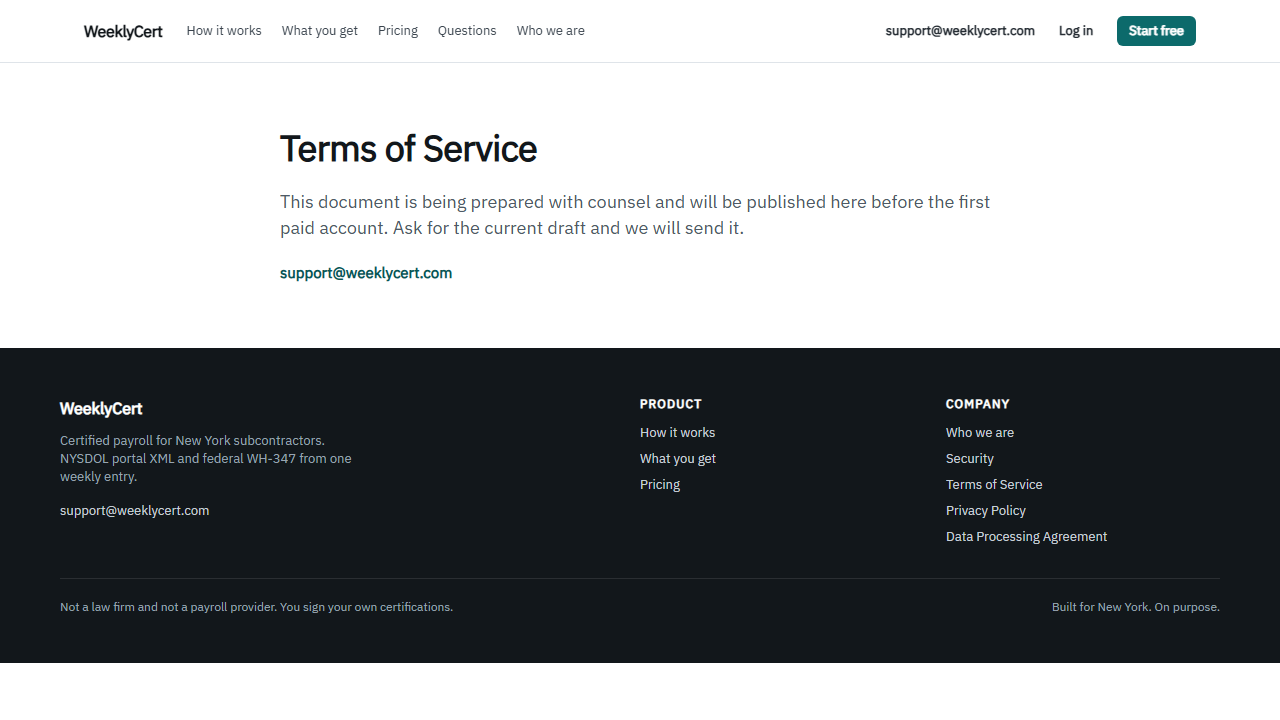
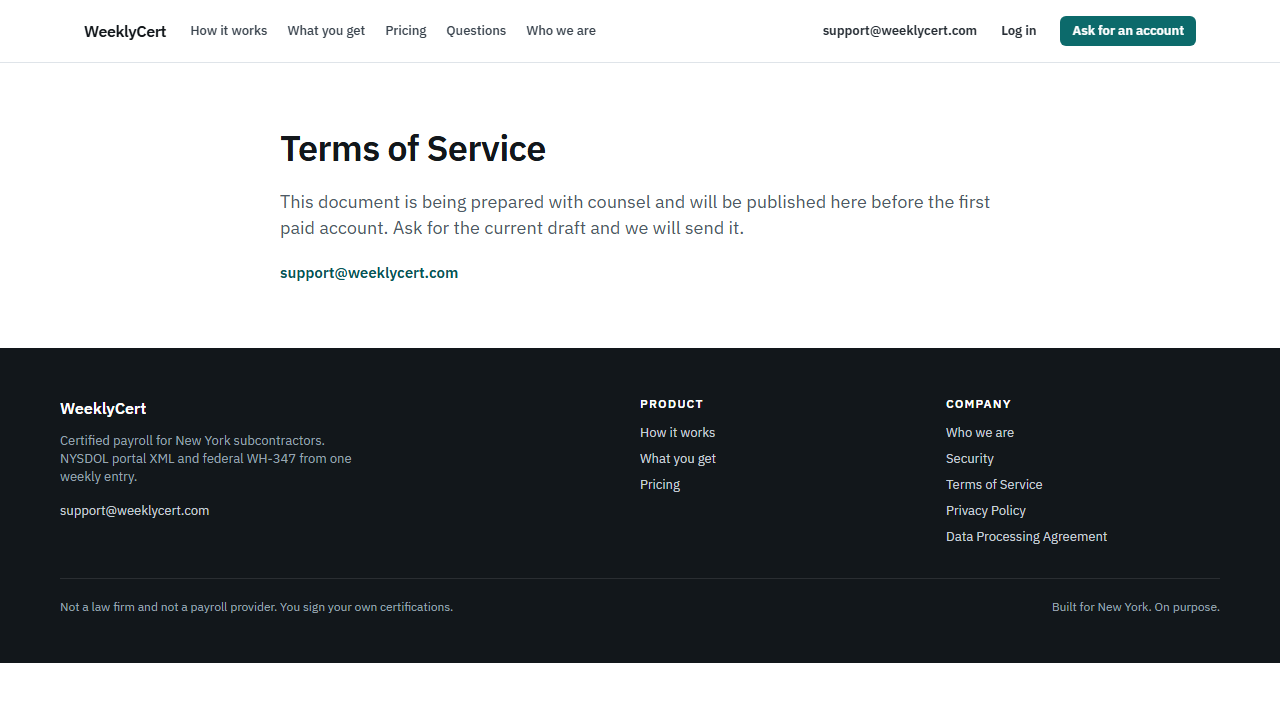
[3b] site: no call to action leads anywhere that does not exist
Start free went to /pricing, and on /pricing to itself; Log in went to
app.weeklycert.com, which is built after the gate of ten payments. Until sign
up exists both open an email to the address the header already shows, with a
subject that says which button was pressed. Text added to 15 section 3 block 14
first, then to packages/copy, then used. The four strings are marked temporary
there, with what replaces them.

The note under the price button no longer promises what happens to a card,
because no card is taken.

New test walks every link on every built page and fails on anything that is not
an email, an anchor that exists, or a page that answers 200.

The hero img keeps its Biome suppression with the reason: next/image optimises
nothing under output export without a loader.

diff --git a/apps/site/test/e2e/site.spec.ts b/apps/site/test/e2e/site.spec.ts
@@ -79,14 +79,68 @@ test('the hero carries the real grid and a whole week of it (spec/16 §4 row 2)'
   await expect(shot).toHaveAttribute('alt', /seven days/)
 })
 
-test('the one primary action leads to the price (spec/16 §4, CTA discipline)', async ({ page }) => {
+test('the one primary action opens an email, because sign up does not exist yet', async ({
+  page,
+}) => {
   // spec/19 §10 item 7: one test for the main action of the screen. There is
   // exactly one primary action on this site and it is repeated, never competed
   // with by a "Book a demo" of equal weight.
+  //
+  // Where it leads is 15 §3 block 14: /register and app.weeklycert.com are
+  // built after the gate of ten payments (19 §9), so until then the button says
+  // what it does and opens an email instead of promising a screen.
   await page.goto('/')
-  await page.getByRole('link', { name: 'Start free for 14 days' }).first().click()
-  await expect(page).toHaveURL(/\/pricing/)
-  await expect(page.getByRole('heading', { level: 1 })).toBeVisible()
+  const primary = page.getByRole('link', { name: 'Ask for an account' }).first()
+  await expect(primary).toHaveAttribute(
+    'href',
+    'mailto:support@weeklycert.com?subject=Account%20request%20from%20weeklycert.com',
+  )
+  // And it says so next to itself, rather than letting the visitor find out.
+  await expect(page.getByText('Sign up is not open yet').first()).toBeVisible()
+})
+
+test('no link anywhere on the site leads to a page that does not exist', async ({
+  page,
+  request,
+}) => {
+  // The rule behind this one is blunt: a call to action that 404s on a site
+  // selling compliance software costs more than the sale. Every link on every
+  // built page is either an email, a section of a page that exists, or a page
+  // that answers 200.
+  const checked = new Map<string, number>()
+  for (const route of ROUTES) {
+    await page.goto(route.path)
+    const hrefs = await page
+      .locator('a[href]')
+      .evaluateAll((links) => links.map((link) => link.getAttribute('href') ?? ''))
+    expect(hrefs.length).toBeGreaterThan(5)
+
+    for (const href of hrefs) {
+      if (href.startsWith('mailto:')) {
+        // One inbox, and a subject that says which button was pressed (15 §3).
+        expect(href, `${route.path}: ${href}`).toMatch(
+          /^mailto:support@weeklycert\.com(\?subject=\S+)?$/,
+        )
+        continue
+      }
+      // Nothing on this site links off it, and nothing links to a host that is
+      // not built yet either.
+      expect(href, `${route.path}: ${href}`).toMatch(/^\/[\w#/-]*$/)
+
+      const [path = '/', fragment] = href.split('#')
+      const target = path === '' ? '/' : path
+      if (!checked.has(target)) {
+        checked.set(target, (await request.get(target)).status())
+      }
+      expect(checked.get(target), `${route.path} links to ${href}`).toBe(200)
+
+      if (fragment) {
+        await page.goto(target)
+        await expect(page.locator(`#${fragment}`)).toHaveCount(1)
+        await page.goto(route.path)
+      }
+    }
+  }
 })
 
 test('a section link does not park its heading under the sticky header', async ({ page }) => {

diff --git a/apps/site/components/Hero.tsx b/apps/site/components/Hero.tsx
@@ -1,6 +1,7 @@
 import { copy } from '@wc/copy'
 import { preload } from 'react-dom'
 import { Check } from './Check'
+import { supportMailto } from './links'
 
 /**
  * spec/16 §4 row 2. The picture on the right is a REAL screenshot of the hours
@@ -24,11 +25,13 @@ export function Hero() {
           <h1 className="font-semibold text-4xl text-text-primary">{c.title}</h1>
           <p className="mt-5 max-w-[520px] text-lg text-text-secondary">{c.subtitle}</p>
           <div className="mt-7 flex flex-wrap gap-3">
+            {/* The one primary action, and while sign-up does not exist it is an
+                email, not a link to a screen nobody built (15 §3 block 14). */}
             <a
               className="inline-flex h-12 items-center rounded-md bg-brand px-6 font-semibold text-md text-white no-underline hover:bg-brand-hover"
-              href="/pricing"
+              href={supportMailto(copy.site.signup.subject)}
             >
-              {c.primary}
+              {copy.site.signup.button}
             </a>
             <a
               className="inline-flex h-12 items-center rounded-md border border-n-450 bg-white px-6 font-semibold text-md text-n-800 no-underline hover:bg-n-50"
@@ -48,6 +51,7 @@ export function Hero() {
         </div>
 
         <div className="overflow-hidden rounded-lg border border-n-300 bg-white shadow-panel">
+          {/* biome-ignore lint/performance/noImgElement: next/image optimises nothing under output: 'export' without a custom loader (19 §2 and §9), so <Image> would ship the same bytes plus a client component. The size is fixed above and the fetch priority is set by hand. */}
           <img
             src="/hero-grid.png"
             alt={c.shotAlt}

diff --git a/apps/site/components/SiteNav.tsx b/apps/site/components/SiteNav.tsx
@@ -1,5 +1,5 @@
 import { copy } from '@wc/copy'
-import { APP_URL, SECTION } from './links'
+import { SECTION, supportMailto } from './links'
 
 /**
  * spec/16 §4 row 1. The human option in the header is an email address and not
@@ -8,6 +8,11 @@ import { APP_URL, SECTION } from './links'
  *
  * Section links are absolute (`/#how`), so they work from /pricing and
  * /security as well as from the home page.
+ *
+ * "Log in" and the primary action both open an email: the application lives at
+ * app.weeklycert.com, which is built after the gate of ten payments (19 §9), so
+ * until then both of them would point at a host that does not answer
+ * (15 §3 block 14).
  */
 export function SiteNav() {
   const c = copy.site.nav
@@ -49,15 +54,15 @@ export function SiteNav() {
           </a>
           <a
             className="hidden h-[30px] items-center rounded-md px-3 font-semibold text-n-800 text-sm no-underline hover:bg-n-50 sm:inline-flex"
-            href={APP_URL}
+            href={supportMailto(copy.site.signup.logInSubject)}
           >
             {c.logIn}
           </a>
           <a
             className="inline-flex h-[30px] items-center rounded-md bg-brand px-3 font-semibold text-sm text-white no-underline hover:bg-brand-hover"
-            href="/pricing"
+            href={supportMailto(copy.site.signup.subject)}
           >
-            {c.startFree}
+            {copy.site.signup.button}
           </a>
         </div>
       </div>

diff --git a/apps/site/components/PriceTable.tsx b/apps/site/components/PriceTable.tsx
@@ -1,5 +1,6 @@
 import { copy } from '@wc/copy'
 import { Check } from './Check'
+import { supportMailto } from './links'
 import { Section, SectionHead } from './Section'
 
 /**
@@ -32,13 +33,15 @@ export function PriceTable({ level = 2 }: { level?: 1 | 2 }) {
               </li>
             ))}
           </ul>
+          {/* No card is taken yet, so the note under the button cannot promise
+              what happens to one (15 §3 block 14). */}
           <a
             className="mt-6 flex h-12 items-center justify-center rounded-md bg-brand px-6 font-semibold text-md text-white no-underline hover:bg-brand-hover"
-            href="/pricing"
+            href={supportMailto(copy.site.signup.subject)}
           >
-            {c.cta}
+            {copy.site.signup.button}
           </a>
-          <p className="mt-2.5 text-center text-text-secondary text-xs">{c.ctaNote}</p>
+          <p className="mt-2.5 text-center text-text-secondary text-xs">{copy.site.signup.note}</p>
         </div>
 
         <div className="rounded-lg border border-white/15 bg-white/5 p-6">

diff --git a/apps/site/components/links.ts b/apps/site/components/links.ts
@@ -1,5 +1,4 @@
-/** Where the application lives (spec/19 §9: the site and the app are two hosts). */
-export const APP_URL = 'https://app.weeklycert.com'
+import { copy } from '@wc/copy'
 
 /**
  * The home page sections, written absolute so a link works from /pricing and
@@ -16,3 +15,16 @@ export const SECTION = {
 export const LEGAL_DOCS = ['terms', 'privacy', 'dpa'] as const
 
 export type LegalDoc = (typeof LEGAL_DOCS)[number]
+
+/**
+ * Where a call to action goes while there is nothing to sign up to.
+ *
+ * `app.weeklycert.com` is built after the gate of ten payments (spec/19 §9) and
+ * `/register` is a screen in `apps/web` that does not exist yet either, so
+ * every button that used to promise one now opens an email to the address the
+ * header already shows (spec/15 §3 block 14). The subject says which button was
+ * pressed, because the same inbox answers all of them.
+ */
+export function supportMailto(subject: string): string {
+  return `mailto:${copy.site.nav.contact}?subject=${encodeURIComponent(subject)}`
+}

diff --git a/packages/copy/src/index.ts b/packages/copy/src/index.ts
@@ -392,6 +392,19 @@ export const copy = {
       /** The human option in the header. A phone number goes here when one exists. */
       contact: 'support@weeklycert.com',
     },
+    /**
+     * 15 §3 block 14. There is no /register and no app.weeklycert.com until the
+     * gate of ten payments (19 §9), so the primary action and "Log in" open an
+     * email instead of a screen that does not exist. `nav.startFree`,
+     * `hero.primary` and `pricing.cta` are the labels that come back the day
+     * sign-up does; nothing renders them in the meantime.
+     */
+    signup: {
+      button: 'Ask for an account',
+      note: 'Sign up is not open yet. Email us and we will set your account up by hand.',
+      subject: 'Account request from weeklycert.com',
+      logInSubject: 'Sign in help',
+    },
     footer: {
       description:
         'Certified payroll for New York subcontractors. NYSDOL portal XML and federal WH-347 from one weekly entry.',

diff --git a/apps/site/components/Cta.tsx b/apps/site/components/Cta.tsx
@@ -1,4 +1,5 @@
 import { copy } from '@wc/copy'
+import { supportMailto } from './links'
 
 /** spec/16 §4 row 14: the last call, the same one action as the hero. */
 export function Cta() {
@@ -10,10 +11,11 @@ export function Cta() {
         <p className="mx-auto mt-3 max-w-[560px] text-lg text-teal-100">{c.body}</p>
         <a
           className="mt-7 inline-flex h-12 items-center rounded-md bg-white px-6 font-semibold text-md text-n-900 no-underline hover:bg-n-50"
-          href="/pricing"
+          href={supportMailto(copy.site.signup.subject)}
         >
-          {c.button}
+          {copy.site.signup.button}
         </a>
+        <p className="mt-3 text-sm text-teal-100">{copy.site.signup.note}</p>
       </div>
     </section>
   )

diff --git a/spec/15-TEKSTOVI-I-EMAILOVI.md b/spec/15-TEKSTOVI-I-EMAILOVI.md
@@ -431,6 +431,23 @@ jednu istinitu rečenicu:
 `This document is being prepared with counsel and will be published here before the first paid account. Ask for the current draft and we will send it.`
 Ispod nje kontakt: `support@weeklycert.com`
 
+**14 Poziv na radnju dok registracija ne postoji**
+
+Registracija (`/register`) i aplikacija (`app.weeklycert.com`) nastaju tek
+poslije kapije od 10 uplata (19 §9, 12). Do tada nijedno dugme ne smije voditi na
+ekran koji ne postoji, jer je slijepi link na sajtu koji prodaje usklađenost
+gori od poštene rečenice. Primarna radnja i `Log in` zato vode na
+`mailto:support@weeklycert.com`, s predmetom koji kaže o čemu se radi.
+
+- Dugme, umjesto `Start free` i `Start free for 14 days`: `Ask for an account`
+- Napomena ispod dugmeta: `Sign up is not open yet. Email us and we will set your account up by hand.`
+- Predmet tog emaila: `Account request from weeklycert.com`
+- Predmet emaila iza `Log in`: `Sign in help`
+
+Kad registracija proradi, vraćaju se `Start free` i `Start free for 14 days` iz
+odjeljaka 1 i 7 gore, a ova četiri stringa se brišu. Oni su privremeni i to je
+jedini razlog zbog kojeg postoje.
+
 **Nijedan telefonski broj se ne pojavljuje u tekstu dok ne postoji stvaran broj
 koji neko javlja.** Izmišljen broj u poruci o grešci je gori od nikakvog, jer
 kupac po njemu zove kad mu gori.
